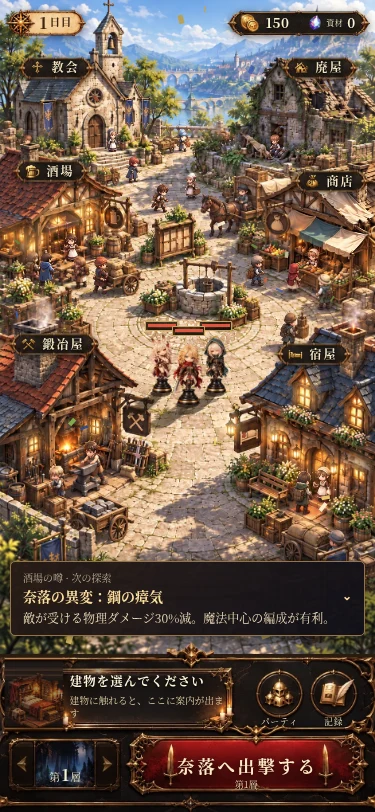
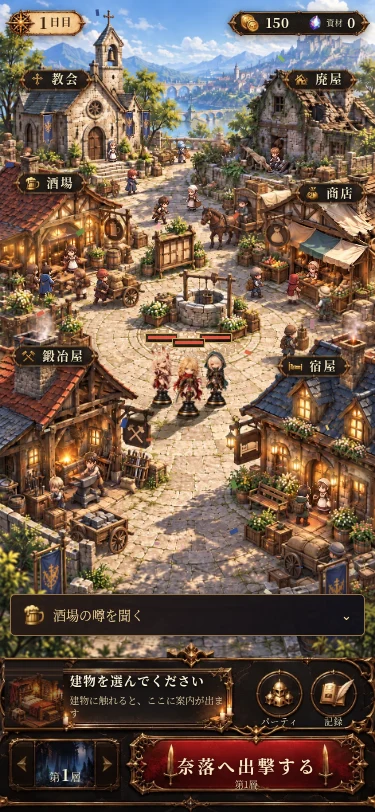
酒場の噂をアイコン付き1行の開閉表示へ

diff --git a/dev/naraku_src.html b/dev/naraku_src.html
@@ -1021,7 +1021,7 @@ img.frm{display:block;width:100%;height:100%}
 @media(prefers-reduced-motion:reduce){#strategyReveal .turn{animation:none;transform:rotateY(180deg)}}
 
 .tvc-pr.lana-profile{display:flex;flex-direction:column;align-items:stretch;justify-content:center;font-size:calc(10px*var(--lk));line-height:1.35}.lana-profile p{margin:0 0 4px;color:#3e2a17;font-size:11px}.lana-outfit{font-size:12px;display:flex;align-items:center;gap:10px;white-space:nowrap}.lana-outfit label{display:flex;align-items:center;gap:4px}.lana-outfit select{min-height:28px;font:inherit;color:#f4dfae;background:#211b17;border:1px solid #94764b;padding:3px}.lana-outfit input{margin:0}
-.omen-notice{pointer-events:auto;margin:0 10px 3px;padding:9px 12px;border:1px solid #967448;border-radius:5px;background:linear-gradient(130deg,rgba(39,27,22,.97),rgba(17,16,24,.97));color:#eddbb8;text-align:left;font-size:12px;line-height:1.45;box-shadow:0 2px 12px #0008;max-height:36vh;overflow:auto}.omen-notice summary{cursor:pointer;list-style:none}.omen-notice summary::-webkit-details-marker{display:none}.omen-notice summary small{display:block;color:#b7a78d;font-size:10px}.omen-notice summary b{display:block;color:#ffdf9d;font-size:14px}.omen-notice summary b::after{content:' ⌄';float:right;font-size:12px}.omen-notice summary span{display:block;margin-top:3px}.omen-notice p{font-size:12px;margin:8px 0;color:#c9bfae}.omen-notice button{font:inherit;background:#4c3926;color:#f1dfb5;border:1px solid #9d7a46;padding:7px 12px}.omen-notice:focus-within{border-color:#e0ba71}
+.omen-notice{pointer-events:auto;margin:0 10px 3px;border:1px solid #967448;border-radius:5px;background:linear-gradient(130deg,rgba(39,27,22,.97),rgba(17,16,24,.97));color:#eddbb8;text-align:left;font-size:12px;line-height:1.45;box-shadow:0 2px 12px #0008}.omen-notice summary{display:flex;align-items:center;gap:8px;min-height:40px;padding:0 12px;cursor:pointer;list-style:none;color:#ffdf9d;font-size:13px}.omen-notice summary::-webkit-details-marker{display:none}.omen-notice summary::after{content:'⌄';margin-left:auto}.omen-notice[open] summary::after{content:'⌃'}.omen-ic{display:inline-block;flex:none;width:22px;height:22px;background:var(--th-ic) 20% 0/600% 100% no-repeat}.omen-body{padding:0 12px 12px;max-height:30vh;overflow:auto}.omen-body small{display:block;color:#b7a78d;font-size:10px}.omen-body b{display:block;color:#ffdf9d;font-size:14px}.omen-body p{font-size:12px;margin:8px 0;color:#c9bfae}.omen-notice button{font:inherit;background:#4c3926;color:#f1dfb5;border:1px solid #9d7a46;padding:7px 12px}.omen-notice:focus-within{border-color:#e0ba71}
 </style>
 <script>
 /* 起動の見張り。本体のスクリプトより前に置く。本体が読み込めない・途中で止まったときに、真っ暗な戦闘画面のまま黙らないようにする */
@@ -2814,7 +2814,7 @@ function omenDamage(dmg,who){
   return dmg;
 }
 function omenHTML(key,label='次の探索'){
-  const o=OMENS[omenKey(key)];return '<details class="omen-notice"><summary><small>酒場の噂 · '+label+'</small><b>奈落の異変：'+o.name+'</b><span>'+o.effect+'</span></summary><p>「'+o.rumor+'」</p><p>この異変は探索終了まで固定。編成・階層変更や再読み込みでは変わりません。</p><p>通常攻撃・スキル・超必殺・延焼は、すべて使い手の固有属性（物理／魔法）で判定します。</p><button data-go="party">酒場で編成を整える ›</button></details>';
+  const o=OMENS[omenKey(key)];return '<details class="omen-notice"><summary><i class="omen-ic" aria-hidden="true"></i>酒場の噂を聞く</summary><div class="omen-body"><small>'+label+'</small><b>奈落の異変：'+o.name+'</b><p>'+o.effect+'</p><p>「'+o.rumor+'」</p><p>この異変は探索終了まで固定。編成・階層変更や再読み込みでは変わりません。</p><p>通常攻撃・スキル・超必殺・延焼は、すべて使い手の固有属性（物理／魔法）で判定します。</p><button data-go="party">酒場で編成を整える ›</button></div></details>';
 }
 const SAVE_KEY='naraku_save_v1';
 function newSave(){

diff --git a/index.html b/index.html
@@ -1021,7 +1021,7 @@ img.frm{display:block;width:100%;height:100%}
 @media(prefers-reduced-motion:reduce){#strategyReveal .turn{animation:none;transform:rotateY(180deg)}}
 
 .tvc-pr.lana-profile{display:flex;flex-direction:column;align-items:stretch;justify-content:center;font-size:calc(10px*var(--lk));line-height:1.35}.lana-profile p{margin:0 0 4px;color:#3e2a17;font-size:11px}.lana-outfit{font-size:12px;display:flex;align-items:center;gap:10px;white-space:nowrap}.lana-outfit label{display:flex;align-items:center;gap:4px}.lana-outfit select{min-height:28px;font:inherit;color:#f4dfae;background:#211b17;border:1px solid #94764b;padding:3px}.lana-outfit input{margin:0}
-.omen-notice{pointer-events:auto;margin:0 10px 3px;padding:9px 12px;border:1px solid #967448;border-radius:5px;background:linear-gradient(130deg,rgba(39,27,22,.97),rgba(17,16,24,.97));color:#eddbb8;text-align:left;font-size:12px;line-height:1.45;box-shadow:0 2px 12px #0008;max-height:36vh;overflow:auto}.omen-notice summary{cursor:pointer;list-style:none}.omen-notice summary::-webkit-details-marker{display:none}.omen-notice summary small{display:block;color:#b7a78d;font-size:10px}.omen-notice summary b{display:block;color:#ffdf9d;font-size:14px}.omen-notice summary b::after{content:' ⌄';float:right;font-size:12px}.omen-notice summary span{display:block;margin-top:3px}.omen-notice p{font-size:12px;margin:8px 0;color:#c9bfae}.omen-notice button{font:inherit;background:#4c3926;color:#f1dfb5;border:1px solid #9d7a46;padding:7px 12px}.omen-notice:focus-within{border-color:#e0ba71}
+.omen-notice{pointer-events:auto;margin:0 10px 3px;border:1px solid #967448;border-radius:5px;background:linear-gradient(130deg,rgba(39,27,22,.97),rgba(17,16,24,.97));color:#eddbb8;text-align:left;font-size:12px;line-height:1.45;box-shadow:0 2px 12px #0008}.omen-notice summary{display:flex;align-items:center;gap:8px;min-height:40px;padding:0 12px;cursor:pointer;list-style:none;color:#ffdf9d;font-size:13px}.omen-notice summary::-webkit-details-marker{display:none}.omen-notice summary::after{content:'⌄';margin-left:auto}.omen-notice[open] summary::after{content:'⌃'}.omen-ic{display:inline-block;flex:none;width:22px;height:22px;background:var(--th-ic) 20% 0/600% 100% no-repeat}.omen-body{padding:0 12px 12px;max-height:30vh;overflow:auto}.omen-body small{display:block;color:#b7a78d;font-size:10px}.omen-body b{display:block;color:#ffdf9d;font-size:14px}.omen-body p{font-size:12px;margin:8px 0;color:#c9bfae}.omen-notice button{font:inherit;background:#4c3926;color:#f1dfb5;border:1px solid #9d7a46;padding:7px 12px}.omen-notice:focus-within{border-color:#e0ba71}
 </style>
 <script>
 /* 起動の見張り。本体のスクリプトより前に置く。本体が読み込めない・途中で止まったときに、真っ暗な戦闘画面のまま黙らないようにする */
@@ -2814,7 +2814,7 @@ function omenDamage(dmg,who){
   return dmg;
 }
 function omenHTML(key,label='次の探索'){
-  const o=OMENS[omenKey(key)];return '<details class="omen-notice"><summary><small>酒場の噂 · '+label+'</small><b>奈落の異変：'+o.name+'</b><span>'+o.effect+'</span></summary><p>「'+o.rumor+'」</p><p>この異変は探索終了まで固定。編成・階層変更や再読み込みでは変わりません。</p><p>通常攻撃・スキル・超必殺・延焼は、すべて使い手の固有属性（物理／魔法）で判定します。</p><button data-go="party">酒場で編成を整える ›</button></details>';
+  const o=OMENS[omenKey(key)];return '<details class="omen-notice"><summary><i class="omen-ic" aria-hidden="true"></i>酒場の噂を聞く</summary><div class="omen-body"><small>'+label+'</small><b>奈落の異変：'+o.name+'</b><p>'+o.effect+'</p><p>「'+o.rumor+'」</p><p>この異変は探索終了まで固定。編成・階層変更や再読み込みでは変わりません。</p><p>通常攻撃・スキル・超必殺・延焼は、すべて使い手の固有属性（物理／魔法）で判定します。</p><button data-go="party">酒場で編成を整える ›</button></div></details>';
 }
 const SAVE_KEY='naraku_save_v1';
 function newSave(){
